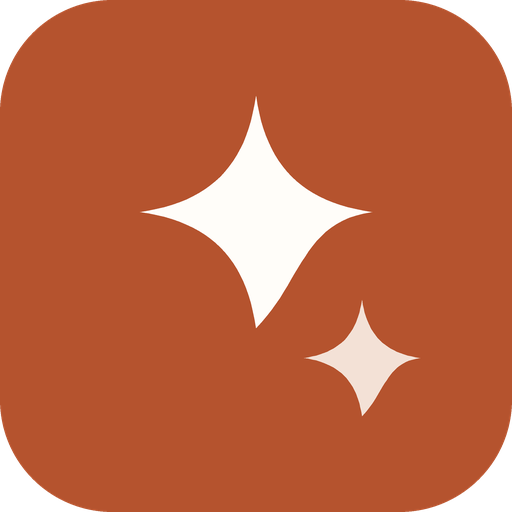
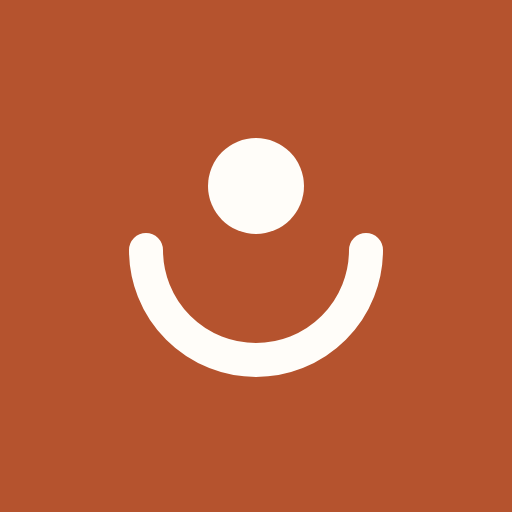
Add files via upload

diff --git a/app.js b/app.js
@@ -1311,7 +1311,15 @@ function makeScene(emoji, title, subs, duration) {
   const titleEnd = 700 + (tl.length - 1) * fs * 1.25 + 40;
   b.fillStyle = "#B5532E"; b.fillRect(VW / 2 - 60, titleEnd, 120, 6);
   b.fillStyle = "#6E655A"; b.font = `500 40px ${VFONT}`;
-  b.fillText("✦ Помощник", VW / 2, VH - 90);
+  b.fillText("Помощник", VW / 2 + 30, VH - 90);
+  // маленький значок приложения слева от подписи
+  const lx = VW / 2 - b.measureText("Помощник").width / 2 - 34, ly = VH - 103, k = 44 / 512;
+  b.save(); b.translate(lx - 22, ly - 22); b.scale(k, k);
+  b.fillStyle = "#B5532E"; b.beginPath(); b.roundRect(0, 0, 512, 512, 112); b.fill();
+  b.strokeStyle = "#FFFDF9"; b.lineWidth = 34; b.lineCap = "round";
+  b.beginPath(); b.arc(256, 250, 110, 0, Math.PI); b.stroke();
+  b.fillStyle = "#FFFDF9"; b.beginPath(); b.arc(256, 186, 48, 0, Math.PI * 2); b.fill();
+  b.restore();
   const subTop = titleEnd + 120, subBottom = VH - 260;
   // заранее раскладываем субтитры по строкам
   subs.forEach((s) => {
@@ -1369,7 +1377,7 @@ async function encodeVideo(scene, pcm, progress) {
 
 // Быстрый путь: кодируем кадры и звук напрямую, без проигрывания (десятки секунд вместо минут)
 async function encodeFast(scene, pcm, progress) {
-  if (!window.Mp4Muxer) await loadScript("mp4-muxer.js?v=23");
+  if (!window.Mp4Muxer) await loadScript("mp4-muxer.js?v=24");
   // H.264 открывается везде; VP9 — запасной вариант, если H.264 кодировать нечем
   let vcfg = null, vcodec = null;
   for (const [codec, mc] of [["avc1.640028", "avc"], ["avc1.4d0028", "avc"], ["avc1.42002a", "avc"], ["avc1.420034", "avc"], ["vp09.00.40.08", "vp9"]]) {

diff --git a/index.html b/index.html
@@ -6,19 +6,19 @@
 <title>Помощник</title>
 <meta name="theme-color" content="#F6F1E9" media="(prefers-color-scheme: light)">
 <meta name="theme-color" content="#1B1814" media="(prefers-color-scheme: dark)">
-<link rel="manifest" href="manifest.webmanifest">
-<link rel="icon" href="icon.svg" type="image/svg+xml">
-<link rel="apple-touch-icon" href="icon-192.png">
+<link rel="manifest" href="manifest.webmanifest?v=2">
+<link rel="icon" href="icon.svg?v=2" type="image/svg+xml">
+<link rel="apple-touch-icon" href="icon-192.png?v=2">
 <meta name="apple-mobile-web-app-capable" content="yes">
 <meta name="apple-mobile-web-app-title" content="Помощник">
-<link rel="stylesheet" href="style.css?v=23">
+<link rel="stylesheet" href="style.css?v=24">
 </head>
 <body>
 
 <!-- Вход -->
 <section id="screen-login" class="screen" hidden>
   <div class="login-wrap">
-    <div class="brand"><span class="brand-mark">✦</span><h1 id="app-name">Помощник</h1></div>
+    <div class="brand"><img class="brand-mark" src="icon.svg?v=2" alt=""><h1 id="app-name">Помощник</h1></div>
     <form id="login-form" class="login-form">
       <label for="login-pass" class="lead">Введите пароль</label>
       <div class="pass-row"><input id="login-pass" type="password" autocomplete="current-password" autocapitalize="off" autocorrect="off" spellcheck="false" required><button type="button" id="pass-toggle" class="btn btn-ghost small pass-toggle">Показать</button></div>
@@ -85,6 +85,6 @@
   </form>
 </section>
 
-<script src="app.js?v=23"></script>
+<script src="app.js?v=24"></script>
 </body>
 </html>

diff --git a/sw.js b/sw.js
@@ -1,6 +1,6 @@
 // Кэш оболочки приложения: открывается даже при плохом интернете.
 // Всегда сначала берём свежую версию из сети (минуя кэш браузера), при её отсутствии — из кэша.
-const CACHE = "pomoshnik-v23";
+const CACHE = "pomoshnik-v24";
 const SHELL = ["./", "index.html", "style.css", "app.js", "config.json", "icon.svg", "manifest.webmanifest"];
 self.addEventListener("install", (e) => { e.waitUntil(caches.open(CACHE).then((c) => c.addAll(SHELL.map((u) => new Request(u, { cache: "reload" })))).then(() => self.skipWaiting())); });
 self.addEventListener("activate", (e) => {

diff --git a/style.css b/style.css
@@ -60,7 +60,7 @@ button, input, textarea, select { font: inherit; color: inherit; }
 /* Вход */
 .login-wrap { width: 100%; max-width: 460px; margin: auto; padding: 32px 16px; }
 .brand { display: flex; align-items: center; gap: 12px; margin-bottom: 8px; }
-.brand-mark { color: var(--accent); font-size: 2em; }
+.brand-mark { width: 64px; height: 64px; border-radius: 16px; display: block; }
 .brand h1 { font-size: 1.8em; margin: 0; }
 .lead { color: var(--muted); margin: 0 0 20px; font-size: 1.1em; }
 .user-tiles { display: grid; grid-template-columns: repeat(auto-fill, minmax(130px, 1fr)); gap: 12px; }
